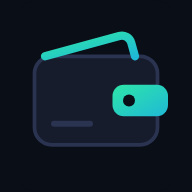
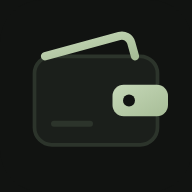
Ambiance « Sauge » : identité visuelle propre à Mon budget
- css/theme.css : tons pastel vert-gris (sombre et clair), boutons
  pastel à texte foncé, halos quasi invisibles, couleurs secondaires
  adoucies.
- Palette des graphiques adoucie et validée (contraste, daltonisme),
  pilotée par les variables --series-1 … --series-8.
- Icône, barre d'état iOS et manifeste assortis.

Claude-Session: https://claude.ai/code/session_01FrcydUEZ5wV4zWm8meR2ba

Changed region(s): [[0.1562, 0.1562, 0.875, 0.7812], [0.25, 0.625, 0.5, 0.6875]]

diff --git a/css/theme.css b/css/theme.css
@@ -1,0 +1,82 @@
+/* =========================================================
+   IDENTITÉ « MON BUDGET » — ambiance Sauge (pastel, sobre)
+   Surcharge les tokens communs (tokens.css) pour distinguer
+   l'application de Mon tableau de bord.
+
+   Palette des graphiques : adoucie et validée (contraste, daltonisme)
+   pour le fond sombre et le fond clair.
+   ========================================================= */
+:root {
+  --bg:#111311;
+  --bg-2:#151815;
+  --surface:rgba(29,33,29,.72);
+  --surface-solid:#1b1f1b;
+  --border:rgba(255,255,255,.07);
+  --accent:#b8cca9;
+  --accent-2:#a4bb94;
+  --accent-ink:#1c2915;
+  --accent-soft:rgba(184,204,169,.12);
+  --gradient-accent:linear-gradient(135deg,#c6d8b8 0%,#a7bd97 100%);
+  --gradient-hero:linear-gradient(160deg,rgba(184,204,169,.08) 0%,rgba(184,204,169,.02) 100%);
+  --shadow-accent:0 6px 18px -10px rgba(184,204,169,.4);
+  --ambient-1:rgba(184,204,169,.05);
+  --ambient-2:rgba(210,200,170,.03);
+  --ambient-3:rgba(0,0,0,0)
+}
+
+:root[data-theme="light"] {
+  --bg:#f5f6f2;
+  --bg-2:#eef0ea;
+  --surface:rgba(255,255,255,.85);
+  --surface-solid:#fff;
+  --accent:#5b7a4b;
+  --accent-2:#789768;
+  --accent-ink:#22331a;
+  --accent-soft:rgba(91,122,75,.09);
+  --gradient-accent:linear-gradient(135deg,#dfe9d6 0%,#cbdcbf 100%);
+  --gradient-hero:linear-gradient(160deg,rgba(184,204,169,.2) 0%,rgba(255,255,255,0) 100%);
+  --shadow-accent:0 6px 16px -10px rgba(91,122,75,.4);
+  --ambient-1:rgba(184,204,169,.14);
+  --ambient-2:rgba(0,0,0,0);
+  --ambient-3:rgba(0,0,0,0)
+}
+
+:root {
+  --series-1:#5e97d0;
+  --series-2:#c67e55;
+  --series-3:#33a795;
+  --series-4:#ad8e3e;
+  --series-5:#c2779b;
+  --series-6:#76a15e;
+  --series-7:#9187ce;
+  --series-8:#ca786e
+}
+
+:root[data-theme="light"] {
+  --series-1:#4c84bc;
+  --series-2:#b26c44;
+  --series-3:#149483;
+  --series-4:#9a7c2a;
+  --series-5:#af6589;
+  --series-6:#648e4c;
+  --series-7:#8075ba;
+  --series-8:#b7665c
+}
+
+/* Couleurs secondaires (icônes de section, épargne, alertes douces) en tons pastel */
+:root {
+  --blue: #9fb7d4;
+  --blue-soft: rgba(159, 183, 212, .12);
+  --violet: #b9aee2;
+  --violet-soft: rgba(185, 174, 226, .12);
+  --amber: #dcc084;
+  --amber-soft: rgba(220, 192, 132, .12);
+}
+:root[data-theme="light"] {
+  --blue: #4f6f93;
+  --blue-soft: rgba(79, 111, 147, .09);
+  --violet: #6b5f9e;
+  --violet-soft: rgba(107, 95, 158, .09);
+  --amber: #8a6a1f;
+  --amber-soft: rgba(138, 106, 31, .1);
+}

diff --git a/css/views/budget.css b/css/views/budget.css
@@ -87,9 +87,9 @@ html.is-pin-locked body > :not(.pin):not(.sheet-backdrop):not(.toast-stack):not(
 .balance__stats--2 > div + div { border-top: 0; border-left: 1px solid var(--border); }
 .balance__stats--2 span { font-size: 11px; }
 .balance__dot { width: 8px; height: 8px; border-radius: 2px; flex: none; }
-.balance__dot--income { background: #ffc24b; }
-.balance__dot--expense { background: #6c8cff; }
-.balance__dot--saving { background: #2ee6a8; }
+.balance__dot--income { background: var(--series-3, #ffc24b); }
+.balance__dot--expense { background: var(--series-2, #6c8cff); }
+.balance__dot--saving { background: var(--series-1, #2ee6a8); }
 .balance__pace { display: flex; align-items: center; gap: 6px; margin-top: var(--sp-3); font-size: var(--fs-xs); color: var(--text-2); }
 
 /* ---------- Jauges de budget ---------- */

diff --git a/index.html b/index.html
@@ -4,7 +4,7 @@
   <meta charset="UTF-8">
   <meta name="viewport" content="width=device-width, initial-scale=1, viewport-fit=cover">
   <meta name="description" content="Suivi de budget : budgets par catégorie, charges fixes, objectifs d'épargne.">
-  <meta name="theme-color" content="#0a0e17">
+  <meta name="theme-color" content="#111311">
   <meta name="color-scheme" content="dark light">
   <meta name="apple-mobile-web-app-capable" content="yes">
   <meta name="mobile-web-app-capable" content="yes">
@@ -23,6 +23,7 @@
   </script>
 
   <link rel="stylesheet" href="css/tokens.css">
+  <link rel="stylesheet" href="css/theme.css">
   <link rel="stylesheet" href="css/base.css">
   <link rel="stylesheet" href="css/components.css">
   <link rel="stylesheet" href="css/layout.css">

diff --git a/js/ui/charts.js b/js/ui/charts.js
@@ -2,7 +2,9 @@
 import { esc } from '../core/utils.js';
 import { formatKey } from '../core/dates.js';
 
-export const PALETTE = ['#2ee6a8', '#6c8cff', '#ffc24b', '#ff7a85', '#b48cff', '#4fd1d9', '#ff9ecf', '#9aa8bf'];
+// Couleurs par défaut ; le thème peut les redéfinir via --series-1 … --series-8.
+const DEFAULT_SERIES = ['#2ee6a8', '#6c8cff', '#ffc24b', '#ff7a85', '#b48cff', '#4fd1d9', '#ff9ecf', '#9aa8bf'];
+export const PALETTE = DEFAULT_SERIES.map((hex, i) => `var(--series-${i + 1}, ${hex})`);
 
 /**
  * Anneau de répartition.

diff --git a/README.md b/README.md
@@ -22,7 +22,7 @@ HTML / CSS / JavaScript purs (modules ES), sans étape de build ni dépendance p
 index.html                  Squelette HTML
 manifest.webmanifest        Manifeste PWA (icônes icon-*.png, apple-touch-icon.png)
 database.rules.json         Règles de la Realtime Database
-css/                        tokens, base, composants, mise en page, views/budget.css
+css/                        tokens, theme (ambiance Sauge), base, composants, mise en page, views/budget.css
 js/
   main.js                   Point d'entrée
   config/firebase-config.js Configuration Firebase (à remplir)
